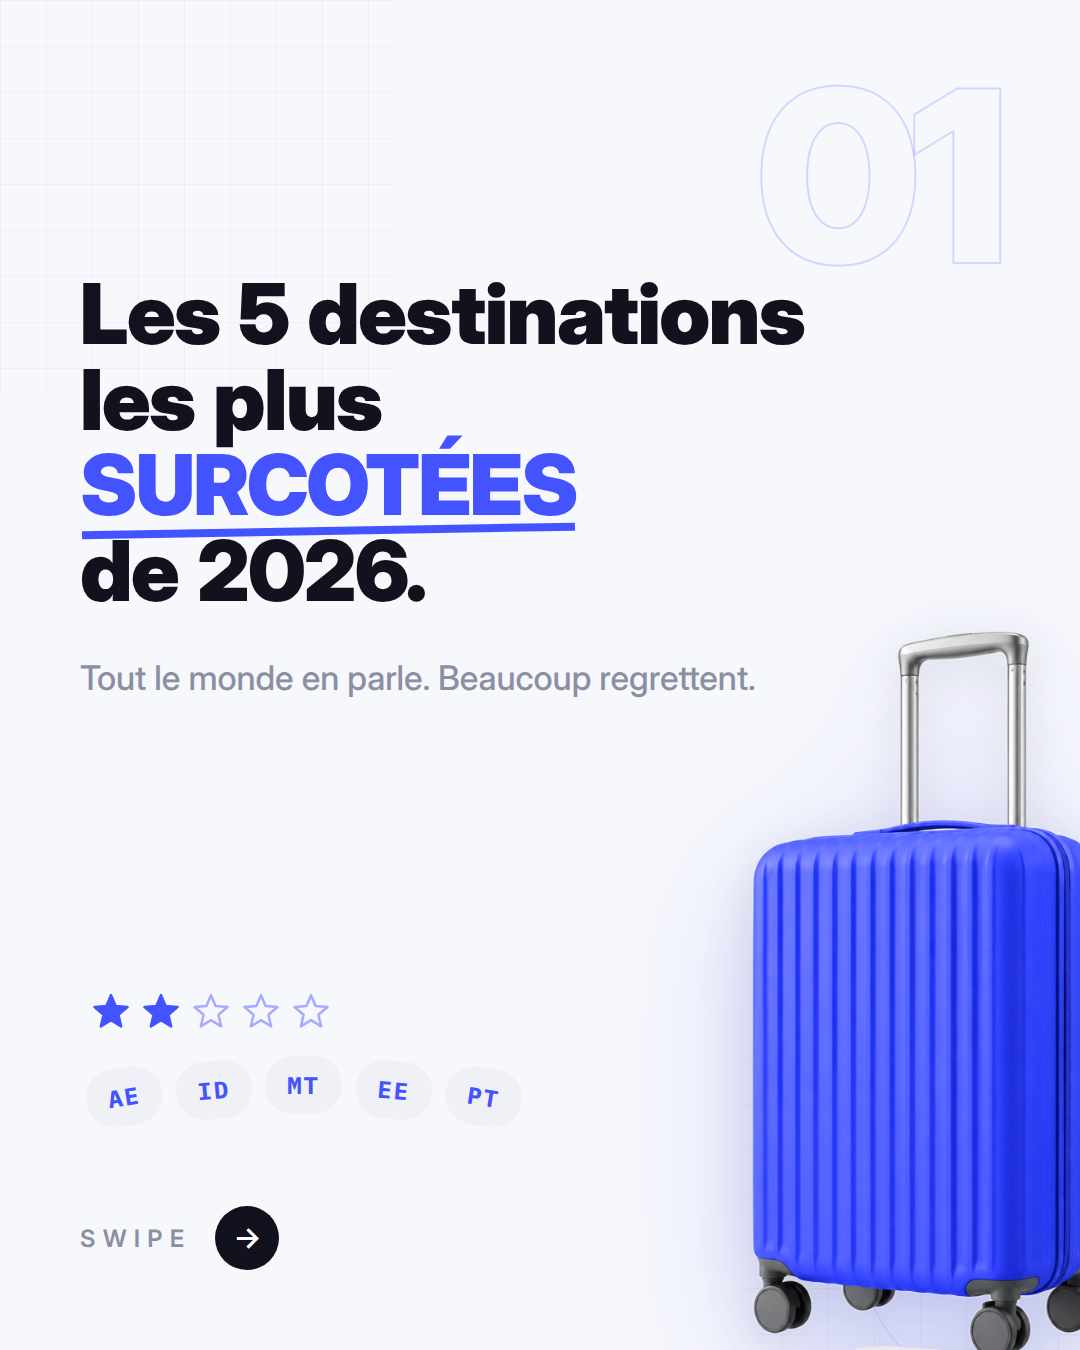
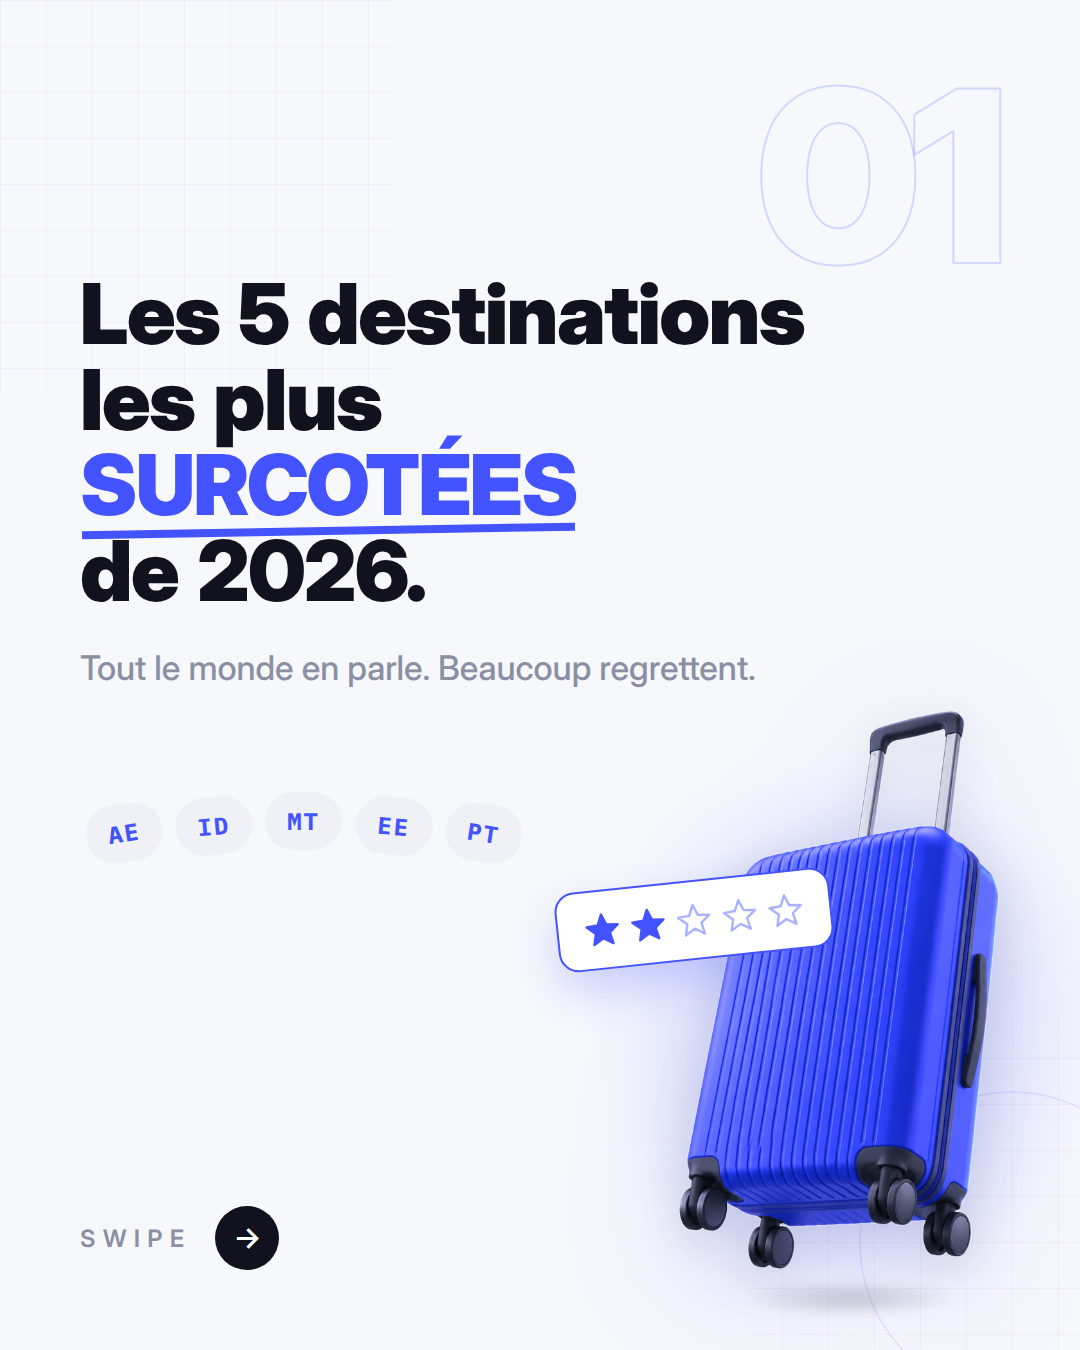
Couverture surcote v2 : valise en levitation et carte de notation
Nouveau visuel Higgsfield (valise inclinee, vue heros, lumiere douce),
detoure et recale sur le bleu signature. La valise est entierement
visible, posee sur un halo bleu diffus et une ombre au sol floutee ;
une carte de notation blanche a cheval sur la coque porte les 2 etoiles
sur 5 : le verdict du carrousel est lisible des la couverture.

Claude-Session: https://claude.ai/code/session_01JgjaVc8GDMA4sZRNpbXpxq

diff --git a/carrousel/slides/surcote/slide-01.html b/carrousel/slides/surcote/slide-01.html
@@ -25,32 +25,34 @@
         Les 5 destinations<br>les plus<br>
         <span class="blue ul-blue">SURCOTÉES</span><br>de 2026.
       </h1>
-      <p class="body muted" style="margin-top:40px">Tout le monde en parle. Beaucoup regrettent.</p>
+      <p class="body muted" style="margin-top:30px">Tout le monde en parle. Beaucoup regrettent.</p>
+      <div class="halo bleed" style="left:478px;top:650px;width:740px;height:740px"></div>
+      <div class="case-floor bleed" style="left:700px;top:1272px;width:300px;height:52px"></div>
       <img class="case bleed" src="../../assets/surcote-valise.png" alt="">
-      <div style="position:absolute;left:84px;bottom:236px">
-        <div class="hv-stars" style="margin-left:8px;gap:12px"><svg width="38" height="38" viewBox="0 0 24 24" aria-hidden="true">
+      <span class="rating" style="left:556px;top:880px;transform:rotate(-6deg)">
+        <svg width="36" height="36" viewBox="0 0 24 24" aria-hidden="true">
       <polygon points="12,2 14.9,8.9 22.4,9.5 16.7,14.4 18.4,21.7 12,17.8 5.6,21.7 7.3,14.4 1.6,9.5 9.1,8.9" fill="#4353FF" fill-opacity="1"
                stroke="#4353FF" stroke-opacity="1" stroke-width="1.6"
-               stroke-linejoin="round"/></svg><svg width="38" height="38" viewBox="0 0 24 24" aria-hidden="true">
+               stroke-linejoin="round"/></svg><svg width="36" height="36" viewBox="0 0 24 24" aria-hidden="true">
       <polygon points="12,2 14.9,8.9 22.4,9.5 16.7,14.4 18.4,21.7 12,17.8 5.6,21.7 7.3,14.4 1.6,9.5 9.1,8.9" fill="#4353FF" fill-opacity="1"
                stroke="#4353FF" stroke-opacity="1" stroke-width="1.6"
-               stroke-linejoin="round"/></svg><svg width="38" height="38" viewBox="0 0 24 24" aria-hidden="true">
+               stroke-linejoin="round"/></svg><svg width="36" height="36" viewBox="0 0 24 24" aria-hidden="true">
       <polygon points="12,2 14.9,8.9 22.4,9.5 16.7,14.4 18.4,21.7 12,17.8 5.6,21.7 7.3,14.4 1.6,9.5 9.1,8.9" fill="none" fill-opacity="0"
                stroke="#4353FF" stroke-opacity="0.45" stroke-width="1.6"
-               stroke-linejoin="round"/></svg><svg width="38" height="38" viewBox="0 0 24 24" aria-hidden="true">
+               stroke-linejoin="round"/></svg><svg width="36" height="36" viewBox="0 0 24 24" aria-hidden="true">
       <polygon points="12,2 14.9,8.9 22.4,9.5 16.7,14.4 18.4,21.7 12,17.8 5.6,21.7 7.3,14.4 1.6,9.5 9.1,8.9" fill="none" fill-opacity="0"
                stroke="#4353FF" stroke-opacity="0.45" stroke-width="1.6"
-               stroke-linejoin="round"/></svg><svg width="38" height="38" viewBox="0 0 24 24" aria-hidden="true">
+               stroke-linejoin="round"/></svg><svg width="36" height="36" viewBox="0 0 24 24" aria-hidden="true">
       <polygon points="12,2 14.9,8.9 22.4,9.5 16.7,14.4 18.4,21.7 12,17.8 5.6,21.7 7.3,14.4 1.6,9.5 9.1,8.9" fill="none" fill-opacity="0"
                stroke="#4353FF" stroke-opacity="0.45" stroke-width="1.6"
-               stroke-linejoin="round"/></svg></div>
-        <div class="fan" style="margin-top:26px">
-          <span class="cc cc--mini" style="transform:rotate(-9deg) translateY(12px)"><span class="cc-code">AE</span></span>
-          <span class="cc cc--mini" style="transform:rotate(-5deg) translateY(5px)"><span class="cc-code">ID</span></span>
-          <span class="cc cc--mini"><span class="cc-code">MT</span></span>
-          <span class="cc cc--mini" style="transform:rotate(5deg) translateY(5px)"><span class="cc-code">EE</span></span>
-          <span class="cc cc--mini" style="transform:rotate(9deg) translateY(12px)"><span class="cc-code">PT</span></span>
-        </div>
+               stroke-linejoin="round"/></svg>
+      </span>
+      <div class="fan" style="position:absolute;left:84px;top:792px">
+        <span class="cc cc--mini" style="transform:rotate(-9deg) translateY(12px)"><span class="cc-code">AE</span></span>
+        <span class="cc cc--mini" style="transform:rotate(-5deg) translateY(5px)"><span class="cc-code">ID</span></span>
+        <span class="cc cc--mini"><span class="cc-code">MT</span></span>
+        <span class="cc cc--mini" style="transform:rotate(5deg) translateY(5px)"><span class="cc-code">EE</span></span>
+        <span class="cc cc--mini" style="transform:rotate(9deg) translateY(12px)"><span class="cc-code">PT</span></span>
       </div>
       <div class="swipe" style="position:absolute;bottom:80px;left:80px">
         <span class="swipe-txt">SWIPE</span><span class="swipe-dot">&rarr;</span>

diff --git a/carrousel/src/slides-surcote.js b/carrousel/src/slides-surcote.js
@@ -94,17 +94,19 @@ module.exports = { DECOR, slides: [
         Les 5 destinations<br>les plus<br>
         <span class="blue ul-blue">SURCOTÉES</span><br>de 2026.
       </h1>
-      <p class="body muted" style="margin-top:40px">Tout le monde en parle. Beaucoup regrettent.</p>
+      <p class="body muted" style="margin-top:30px">Tout le monde en parle. Beaucoup regrettent.</p>
+      <div class="halo bleed" style="left:478px;top:650px;width:740px;height:740px"></div>
+      <div class="case-floor bleed" style="left:700px;top:1272px;width:300px;height:52px"></div>
       ${caseBlock}
-      <div style="position:absolute;left:84px;bottom:236px">
-        <div class="hv-stars" style="margin-left:8px;gap:12px">${stars(2, { size: 38 })}</div>
-        <div class="fan" style="margin-top:26px">
-          <span class="cc cc--mini" style="transform:rotate(-9deg) translateY(12px)"><span class="cc-code">AE</span></span>
-          <span class="cc cc--mini" style="transform:rotate(-5deg) translateY(5px)"><span class="cc-code">ID</span></span>
-          <span class="cc cc--mini"><span class="cc-code">MT</span></span>
-          <span class="cc cc--mini" style="transform:rotate(5deg) translateY(5px)"><span class="cc-code">EE</span></span>
-          <span class="cc cc--mini" style="transform:rotate(9deg) translateY(12px)"><span class="cc-code">PT</span></span>
-        </div>
+      <span class="rating" style="left:556px;top:880px;transform:rotate(-6deg)">
+        ${stars(2, { size: 36 })}
+      </span>
+      <div class="fan" style="position:absolute;left:84px;top:792px">
+        <span class="cc cc--mini" style="transform:rotate(-9deg) translateY(12px)"><span class="cc-code">AE</span></span>
+        <span class="cc cc--mini" style="transform:rotate(-5deg) translateY(5px)"><span class="cc-code">ID</span></span>
+        <span class="cc cc--mini"><span class="cc-code">MT</span></span>
+        <span class="cc cc--mini" style="transform:rotate(5deg) translateY(5px)"><span class="cc-code">EE</span></span>
+        <span class="cc cc--mini" style="transform:rotate(9deg) translateY(12px)"><span class="cc-code">PT</span></span>
       </div>
       <div class="swipe" style="position:absolute;bottom:80px;left:80px">
         <span class="swipe-txt">SWIPE</span><span class="swipe-dot">&rarr;</span>

diff --git a/carrousel/src/style.css b/carrousel/src/style.css
@@ -613,15 +613,32 @@ html, body {
   color: var(--blue); letter-spacing: 0.16em; text-indent: 0.16em;
 }
 
-/* visuel détouré de la couverture « surcoté » : la valise */
+/* visuel détouré de la couverture « surcoté » : la valise en lévitation */
 .case {
-  position: absolute; right: -24px; bottom: -40px; height: 760px;
-  filter: drop-shadow(0 38px 70px rgba(67, 83, 255, 0.24))
+  position: absolute; right: 80px; bottom: 80px; height: 560px;
+  filter: drop-shadow(0 30px 60px rgba(67, 83, 255, 0.22))
           drop-shadow(0 10px 22px rgba(18, 18, 31, 0.10));
 }
 .case-ph {
-  position: absolute; right: 80px; bottom: 60px; width: 420px; height: 620px;
+  position: absolute; right: 80px; bottom: 80px; width: 323px; height: 560px;
   border: 2px dashed rgba(67, 83, 255, 0.28); border-radius: var(--r);
   display: flex; align-items: center; justify-content: center;
   font-size: 20px; font-weight: 600; color: rgba(67, 83, 255, 0.40); letter-spacing: 0.16em;
+}
+/* halo bleu diffus : donne de la profondeur sans sortir de la palette */
+.halo {
+  position: absolute; border-radius: 50%;
+  background: radial-gradient(closest-side, rgba(67, 83, 255, 0.16), rgba(67, 83, 255, 0) 72%);
+}
+/* ombre au sol de l'objet en lévitation */
+.case-floor {
+  position: absolute; border-radius: 50%;
+  background: radial-gradient(closest-side, rgba(18, 18, 31, 0.20), rgba(18, 18, 31, 0) 70%);
+  filter: blur(5px);
+}
+/* carte de notation flottante, à cheval sur la valise */
+.rating {
+  position: absolute; display: inline-flex; align-items: center; gap: 10px;
+  background: #FFFFFF; border: 2px solid var(--blue); border-radius: 20px;
+  padding: 20px 26px; box-shadow: 0 20px 44px rgba(67, 83, 255, 0.24);
 }
